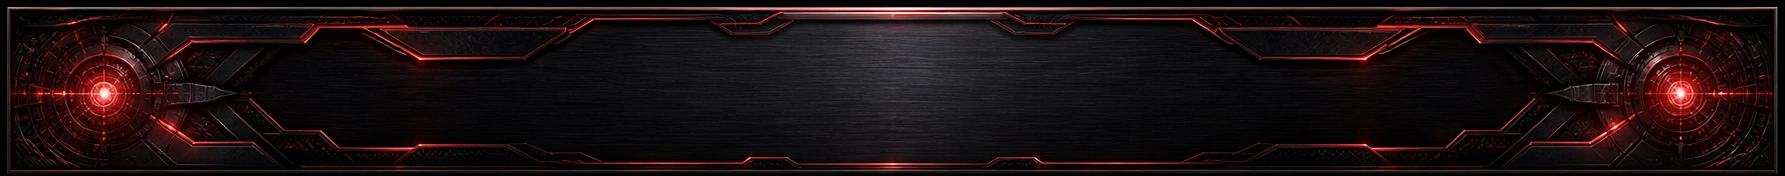
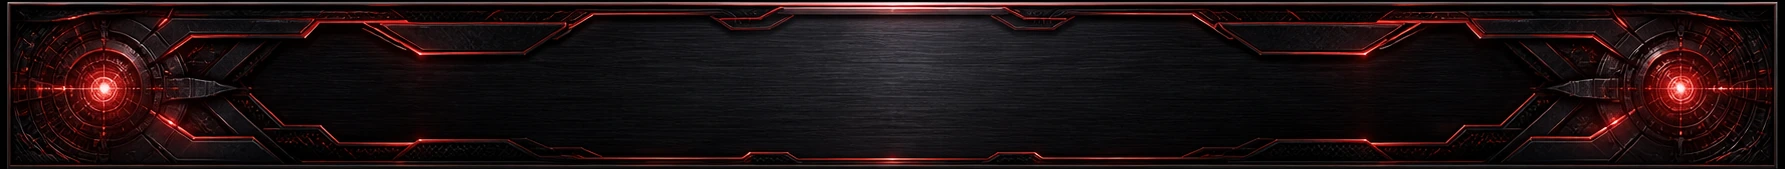
Correct card theme crop boundaries

diff --git a/sw.js b/sw.js
@@ -1,4 +1,4 @@
-const CACHE = 'weight-v101-card-theme-collection';
+const CACHE = 'weight-v102-clean-card-theme-crops';
 const ASSETS = [
   './index.html', './dashboard.html', './input.html', './import.html',
   './achievements.html', './compare.html', './dressroom.html', './shop.html', './guide.html', './visual-lab.html',

diff --git a/scripts/crop_card_theme_sheets.py b/scripts/crop_card_theme_sheets.py
@@ -5,30 +5,32 @@ SHEETS = [
     (
         Path(r"C:\Users\moonh\.codex\generated_images\019f7e8c-44f2-7d21-84af-21382fa0116b\call_qN7vF5Zk0WLLrDw0hDldDDUB.png"),
         ["ct8_u_bear_dugout", "ct8_u_twin_stadium", "ct8_u_tiger_clubhouse", "ct8_u_walnut_cafe", "ct8_u_dawn_runner"],
+        [(0, 168), (174, 332), (342, 494), (501, 640), (646, 793)],
     ),
     (
         Path(r"C:\Users\moonh\.codex\generated_images\019f7e8c-44f2-7d21-84af-21382fa0116b\call_GrYkrzqgv600Is1DmY5dCyk3.png"),
         ["ct8_r_wolong_silk", "ct8_r_red_hare_lacquer", "ct8_r_crescent_dragon", "ct8_r_imperial_bronze", "ct8_r_moon_archive"],
+        [(5, 181), (186, 354), (360, 520), (532, 694), (707, 881)],
     ),
     (
         Path(r"C:\Users\moonh\.codex\generated_images\019f7e8c-44f2-7d21-84af-21382fa0116b\call_GtKVeVYoRTY8MlDmh3zhjT6F.png"),
         ["ct8_e_crimson_reactor", "ct8_e_storm_guardian", "ct8_e_web_tech", "ct8_e_dimensional_mystic", "ct8_e_kinetic_alloy"],
+        [(5, 174), (180, 350), (356, 524), (530, 699), (704, 878)],
     ),
     (
         Path(r"C:\Users\moonh\.codex\generated_images\019f7e8c-44f2-7d21-84af-21382fa0116b\call_hBoL5Mefuf8bgh6bqQmN0n1o.png"),
         ["ct8_l_sun_crystal_regalia", "ct8_l_raven_arcane", "ct8_l_dark_ranger_requiem"],
+        [(5, 239), (245, 478), (484, 720)],
     ),
 ]
 
 OUT = Path(__file__).resolve().parents[1] / "assets" / "showroom-v8" / "card_theme"
 OUT.mkdir(parents=True, exist_ok=True)
 
-for source, names in SHEETS:
+for source, names, bounds in SHEETS:
     image = Image.open(source).convert("RGB")
     width, height = image.size
-    for index, name in enumerate(names):
-        top = round(height * index / len(names))
-        bottom = round(height * (index + 1) / len(names))
+    for name, (top, bottom) in zip(names, bounds):
         crop = image.crop((0, top, width, bottom))
         crop.save(OUT / f"{name}.webp", "WEBP", quality=92, method=6)
         print(name, crop.size)
